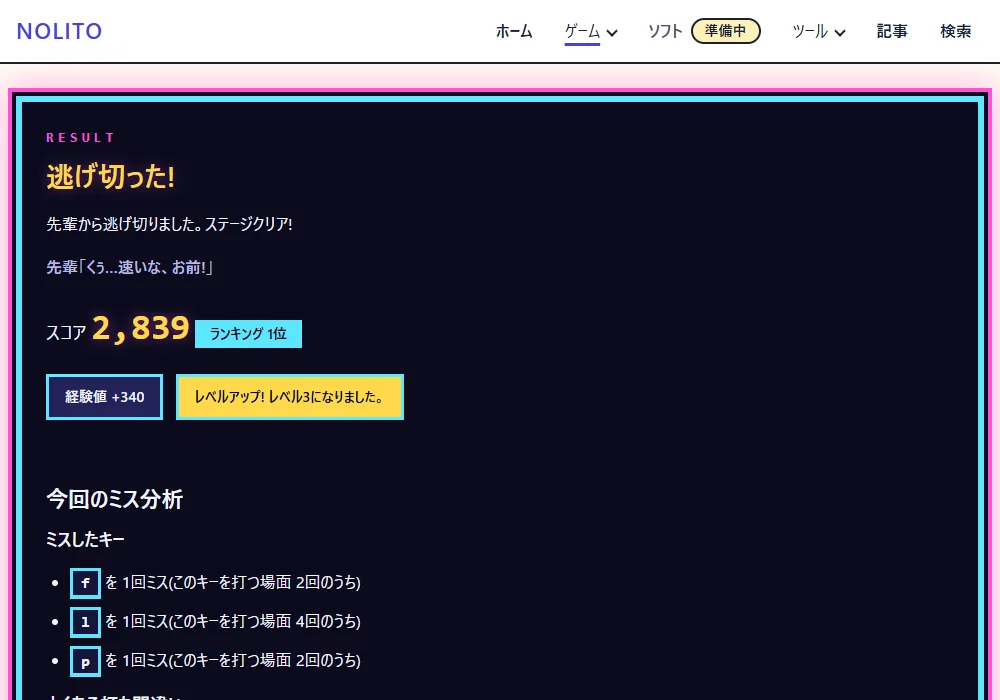
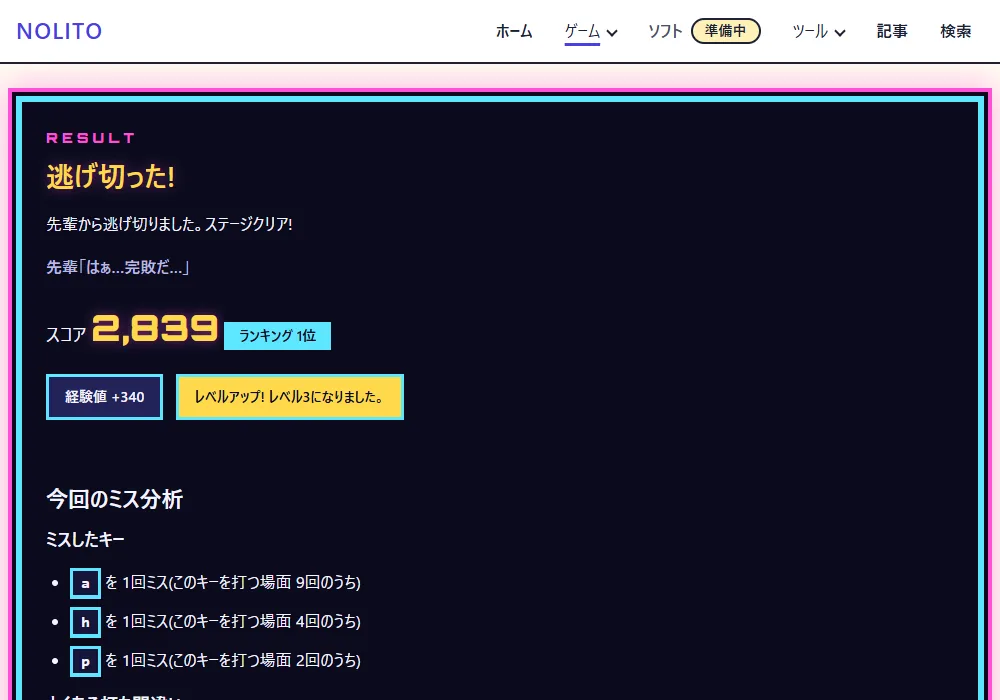
feat: 数字・英字の見出しに、自前の太い字体を使う(Issue #166 PR 4)
Orbitron(OFL)の Basic Latin を切り出し、「NOLITO Display」として同梱。外部へ通信しない(決定 0070)。

Claude-Session: https://claude.ai/code/session_012j85mPf5PLV4M5MMyGfvgc

diff --git a/tests/fonts.test.js b/tests/fonts.test.js
@@ -1,0 +1,37 @@
+// 自前の字体(Issue #166 PR 4)のテスト: 同じサイトから配信し、外部へ通信せず、ライセンスを同梱している。
+import assert from "node:assert/strict";
+import { readFileSync, statSync } from "node:fs";
+import { describe, it } from "node:test";
+import { fileURLToPath } from "node:url";
+
+const root = fileURLToPath(new URL("../", import.meta.url));
+const read = (path) => readFileSync(`${root}${path}`, "utf8").replaceAll("\r\n", "\n");
+const css = read("public/assets/css/game.css");
+const tokens = read("public/assets/css/tokens.css");
+
+describe("自前の字体", () => {
+  it("@font-face は、同じサイトの woff2 だけを指す(外部の URL・Google Fonts を使わない)", () => {
+    const block = /@font-face\s*\{[^}]*\}/.exec(css);
+    assert.ok(block, "@font-face がありません");
+    const urls = [...block[0].matchAll(/url\("([^"]+)"\)/g)].map((m) => m[1]);
+    assert.deepEqual(urls, ["/assets/fonts/nolito-display.woff2"]);
+    assert.match(block[0], /font-display:\s*swap/);
+    assert.ok(!/https?:|\/\/|@import/i.test(css.replace(/\/\*[\s\S]*?\*\//g, "")));
+  });
+
+  it("字体のファイルは、小さく(20KB 以内)、woff2 で、ライセンス(OFL)が同梱されている", () => {
+    const path = `${root}public/assets/fonts/nolito-display.woff2`;
+    assert.ok(statSync(path).size <= 20 * 1024);
+    assert.equal(readFileSync(path).subarray(0, 4).toString("latin1"), "wOF2");
+    assert.match(
+      read("public/assets/fonts/OFL-Orbitron.txt"),
+      /SIL OPEN FONT LICENSE Version 1\.1/i,
+    );
+  });
+
+  it("--font-display は、字体が読めないときの代わり(等幅)を持つ。使う場所は、数字・英字の飾りだけ", () => {
+    assert.match(tokens, /--font-display:\s*"NOLITO Display",[^;]*monospace;/);
+    const used = [...css.matchAll(/font-family:\s*var\(--font-display\)/g)].length;
+    assert.ok(used >= 1 && used <= 4, `${used} 箇所`);
+  });
+});

diff --git a/public/assets/css/game.css b/public/assets/css/game.css
@@ -1,4 +1,14 @@
 /* 「上司から逃げろ」専用のスタイル */
+
+/* 数字・英字の見出し用の字体(Orbitron の Basic Latin を切り出したもの。SIL OFL。自前の配信で、外部へ通信しない。決定 0070) */
+@font-face {
+  font-display: swap;
+  font-family: "NOLITO Display";
+  font-style: normal;
+  font-weight: 700 900;
+  src: url("/assets/fonts/nolito-display.woff2") format("woff2");
+}
+
 .game__error {
   margin: 0 0 var(--space-4);
   padding: var(--space-3) var(--space-4);
@@ -1473,7 +1483,7 @@
 .game-result__label {
   margin: 0 0 var(--space-2);
   color: var(--arcade-magenta);
-  font-family: ui-monospace, SFMono-Regular, Menlo, Consolas, monospace;
+  font-family: var(--font-display);
   font-size: var(--font-size-xs);
   font-weight: var(--font-weight-black);
   letter-spacing: 0.3em;
@@ -1514,7 +1524,7 @@
 .game-result .result-score strong,
 .result-score__roll {
   color: var(--arcade-yellow);
-  font-family: ui-monospace, SFMono-Regular, Menlo, Consolas, monospace;
+  font-family: var(--font-display);
   font-size: var(--font-size-3xl);
   font-variant-numeric: tabular-nums;
   font-weight: var(--font-weight-black);
@@ -1807,7 +1817,7 @@
 .game-ready__press {
   margin: 0;
   color: var(--arcade-yellow);
-  font-family: ui-monospace, SFMono-Regular, Menlo, Consolas, monospace;
+  font-family: var(--font-display);
   font-size: var(--font-size-lg);
   font-weight: var(--font-weight-black);
   letter-spacing: 0.12em;

diff --git a/public/assets/css/tokens.css b/public/assets/css/tokens.css
@@ -60,6 +60,9 @@
   /* Typography */
   --font-base:
     system-ui, -apple-system, "Segoe UI", "Hiragino Sans", "Yu Gothic UI", meiryo, sans-serif;
+
+  /* ゲームの数字・英字の見出し(自前の字体。同梱の Basic Latin だけ。読み込めない間・失敗時は、等幅の字体) */
+  --font-display: "NOLITO Display", ui-monospace, sfmono-regular, menlo, consolas, monospace;
   --font-size-xs: 0.875rem;
   --font-size-base: 1rem;
   --font-size-lg: 1.125rem;

diff --git a/docs/decisions/0070-display-font.md b/docs/decisions/0070-display-font.md
@@ -1,0 +1,26 @@
+# 0070 ゲームの数字・英字の見出しに、自前の字体を使う(Issue #166 PR 4)
+
+## 理由
+
+Issue #166 の「もっと現代のゲーム感を出して欲しい」への対応(PR 4)。結果画面のスコア・「RESULT」・開始の「PRESS SPACE KEY TO START」を、現代的なゲームらしい太い字体にする。
+
+## 決めたこと
+
+- 字体は **Orbitron**(SIL Open Font License 1.1)。Basic Latin(U+0020〜007E)だけを切り出し、太さ 700〜900 の可変のまま、woff2(約 8KB)にした。ファイル: `public/assets/fonts/nolito-display.woff2`、ライセンス: `public/assets/fonts/OFL-Orbitron.txt`。
+- 原本に予約された字体名(Reserved Font Name「Orbitron」)があるため、切り出した版の字体名は **「NOLITO Display」** に変えた(OFL の、改変版の名前の決まりに合わせる)。
+- **自前の配信だけ**(`@font-face` は同じサイトの woff2 を指す。Google Fonts など外部へ通信しない)。プライバシーポリシーの版は上げない。`font-display: swap`、読めないときは等幅の字体(`--font-display` のフォールバック)。
+- 使う場所は、数字・英字の飾りだけ(結果のスコア・ラベル・開始の点滅の文)。日本語・打つ語(ローマ字)・用語の説明は、読みやすさのため、これまでの字体のまま。日本語の太い字体は、字数が多く、語録が増えるたびに切り出し直しが要るため、見送った。
+
+## 影響範囲
+
+- CSS と字体のファイルだけ。HTML・記録・ロジックは変えない。ゲームのページだけが `game.css` 経由で読む(ほかのページは読まない)。
+- 字体の切り出しは、手元で fonttools を使って行った(リポジトリには入れていない)。再現手順: 原本を可変のまま `wght` 700〜900 に絞り、Basic Latin に切り出し、woff2 で保存し、名前を付け替える。
+
+## テスト
+
+- `tests/fonts.test.js`: `@font-face` が同じサイトの woff2 だけを指す・外部の URL がない・20KB 以内・woff2・ライセンス同梱・フォールバックの等幅。
+- Edge で、結果画面・開始画面(1000px・360px)を確認。字体が読み込まれ(`loaded`)、横にはみ出さず、エラーなし。製品画面 `result.webp` を撮り直した。
+
+## 未対応
+
+- 日本語の見出しの字体は、変えていない。

diff --git a/CLAUDE.md b/CLAUDE.md
@@ -317,6 +317,7 @@ NOLITO(ノリト)個人開発プロダクトポータルサイト。仕様は `d
 - 決定は `docs/decisions/0067-arcade-screen.md`(PR 1 = 枠・プレイ中の見た目、PR 2 = 開始・結果の演出、PR 3 = ドット文字)。**HTML は変えず、CSS(`game.css`)だけで作る**。`.game-play` が意味のトークンを、暗い `--arcade-*`(`tokens.css`。**テーマでは上書きしない**)に再定義する。`.scene` は淡い背景の絵のため、固定の明るい色に戻す。
 - **プレイ中は、ヘッダー・フッターを隠す**(`body:has(...)`)。スキップリンクは隠さない。「音」「やめる」は、画面の中に、いつもある(グリッドの場所)。新しい部品をプレイ画面に足すときも、360px で横にはみ出さず、`<details>` を置かない。
 - 場面には、上から差す光と足元の床の影を、`.scene::before`(`--arcade-scene-light`・`--arcade-scene-shade`。飾り。動かない)で敷く。キャラクターの絵は、立体的な描き方(0069)。
+- 数字・英字の見出し(結果のスコア・RESULT・開始の点滅の文)は、自前の字体 `--font-display`(`NOLITO Display`。Orbitron の Basic Latin を切り出した woff2。`public/assets/fonts/`。OFL・外部へ通信しない。決定 `docs/decisions/0070-display-font.md`)。日本語・打つ語には使わない。字体を足す・変えるときは、ライセンスの同梱と `tests/fonts.test.js` をそろえる。
 - 横向きの低い画面の規則は、`game.css` の末尾(`tests/arcade-ui.test.js` が検査)。`game.css` に色の直書きはしない。`.scene__bubble` より後ろのコメントに `#` + 数字を書かない(古いテストが、ファイルの末尾まで色の直書きを検査する)。
 
 ### 開始の点滅・結果のドラムロール(Issue #166 PR 2)
